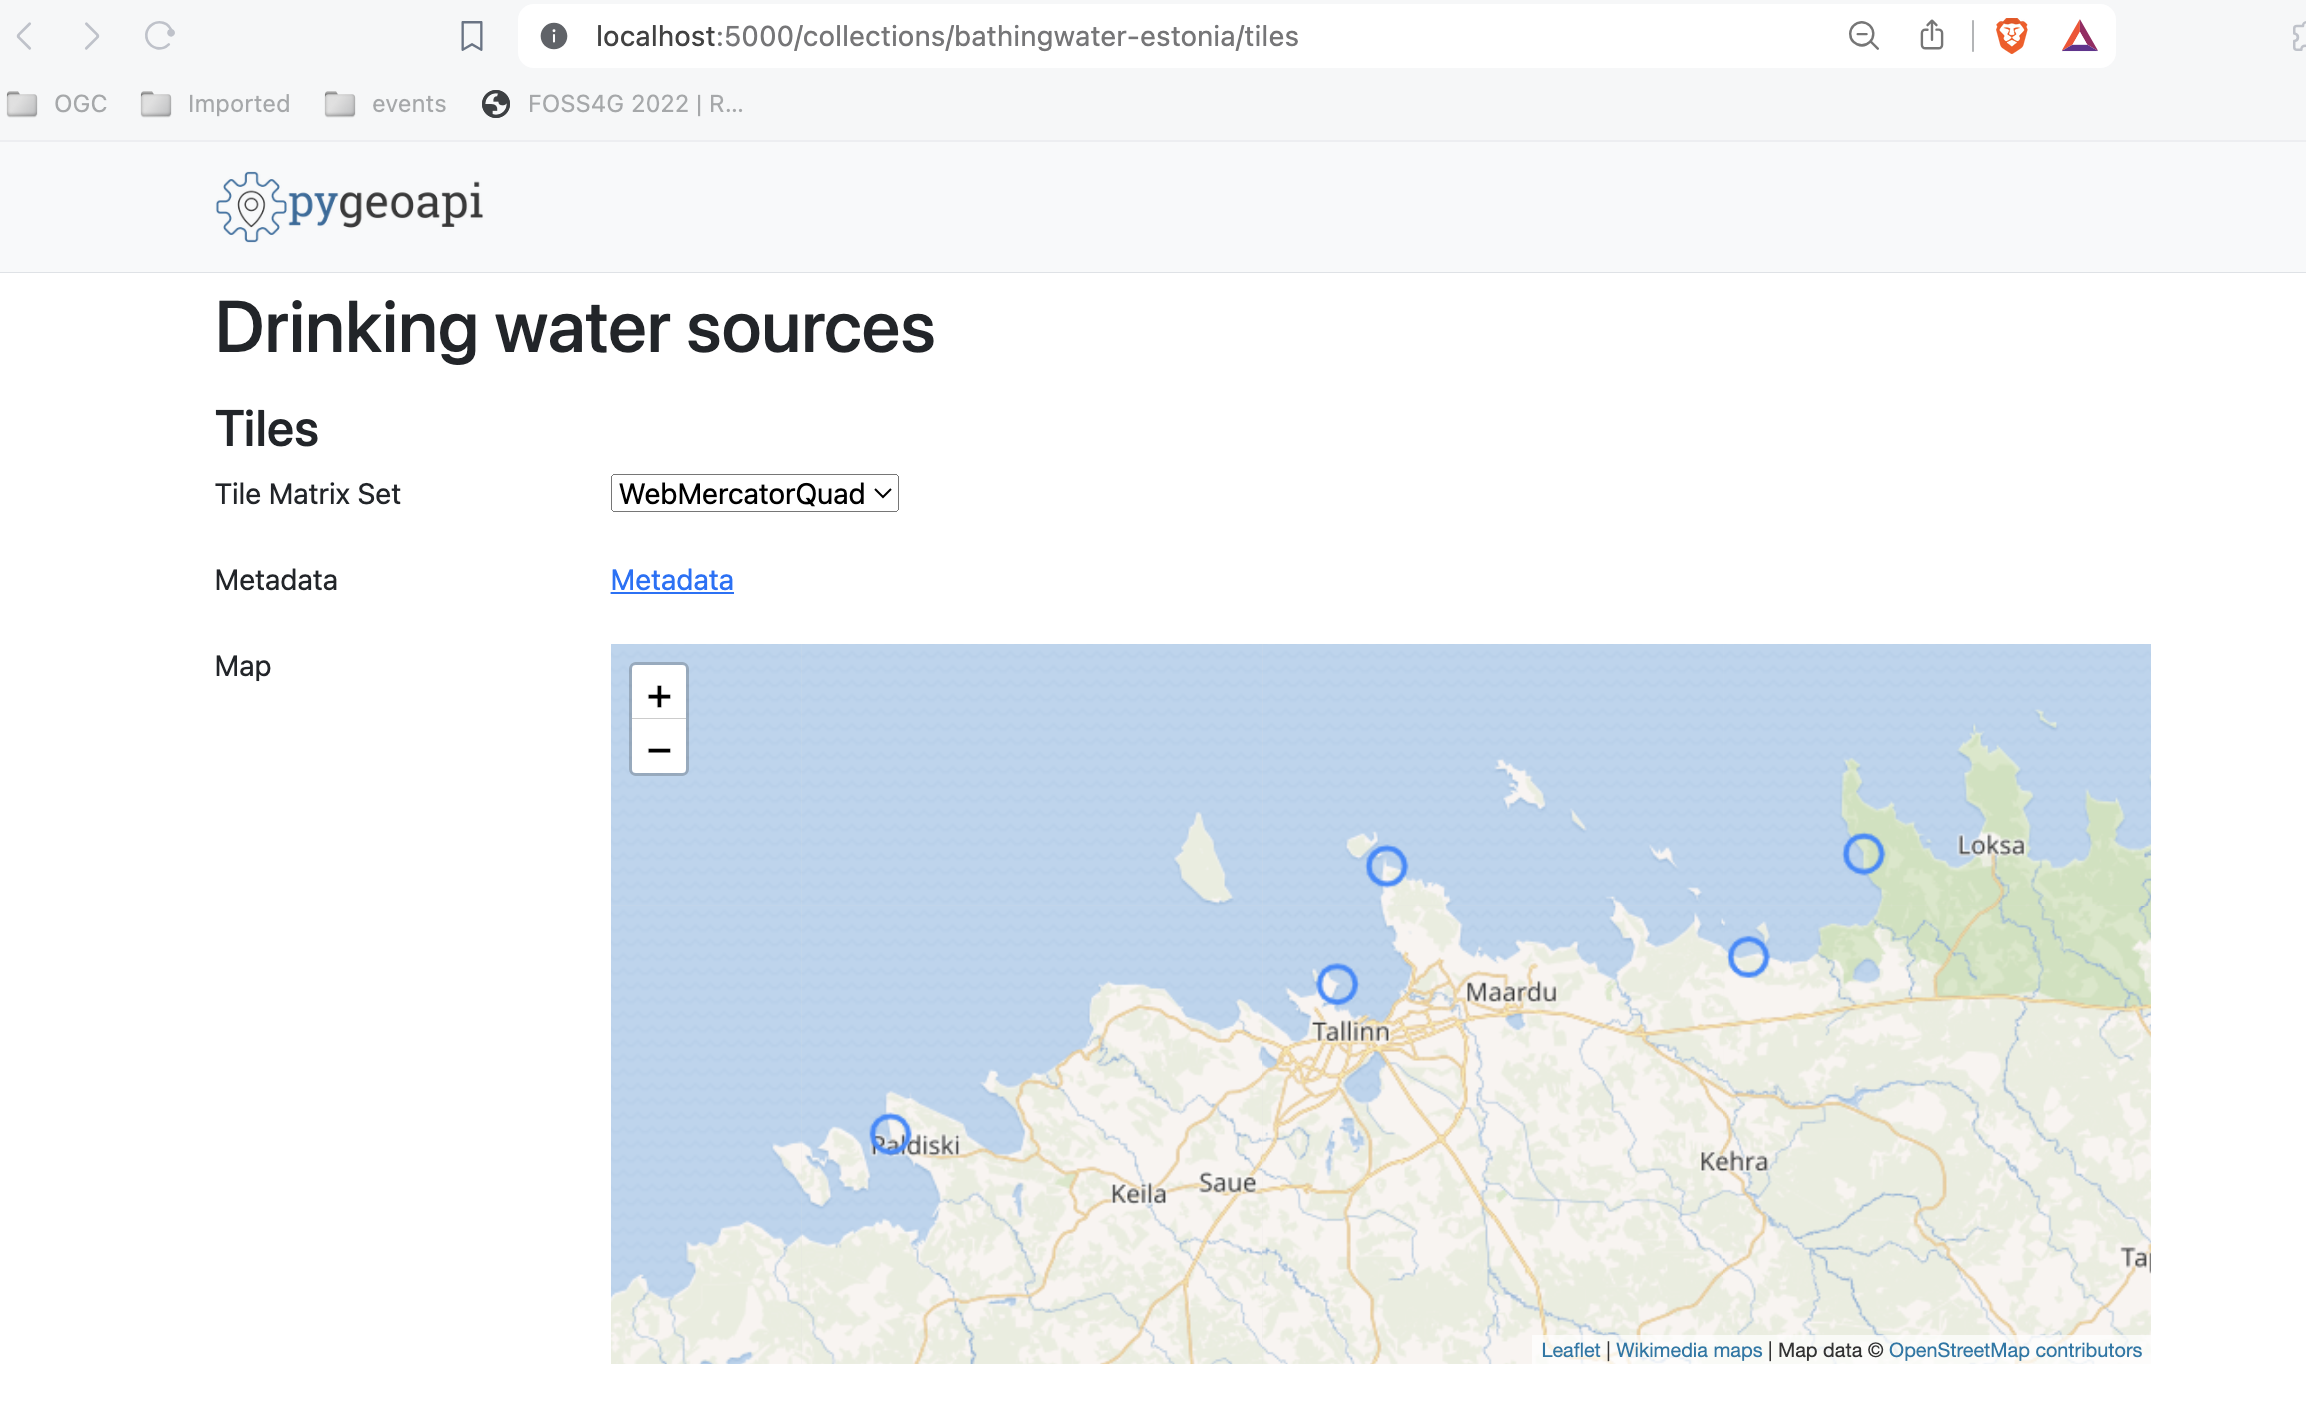
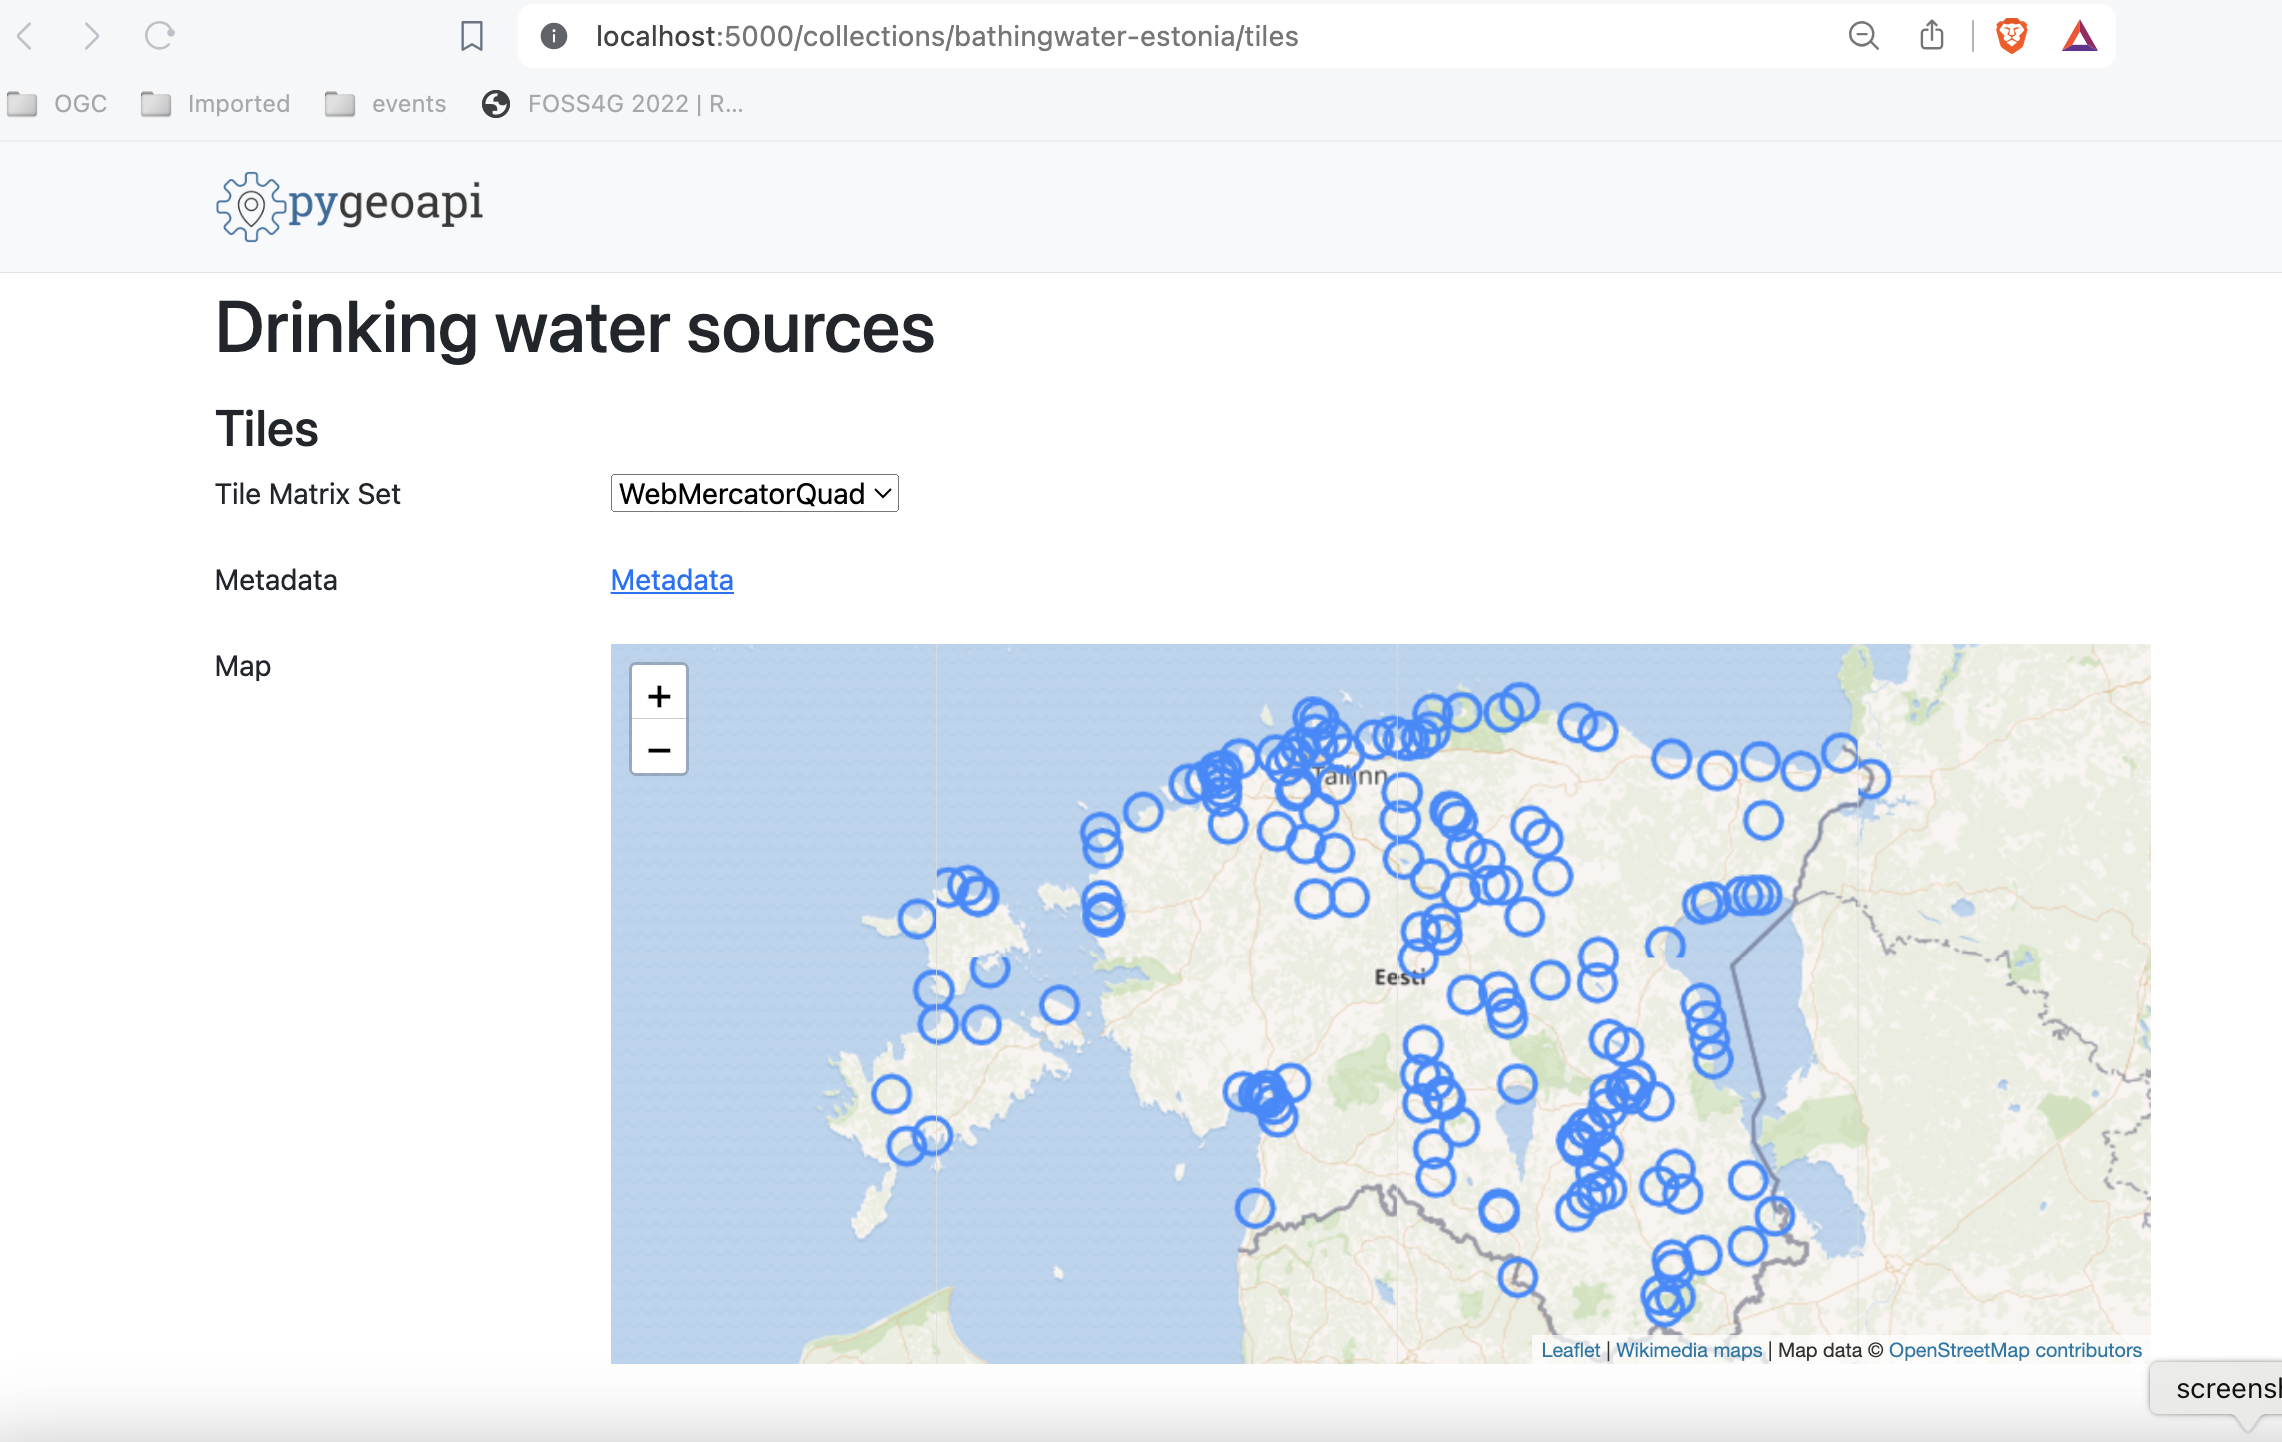
- updated client examples of vector tiles

diff --git a/workshop/exercises/html/vector-tiles.html b/workshop/exercises/html/vector-tiles.html
@@ -2,11 +2,21 @@
 <head><title>OGC API - Tiles exercise</title></head>
 <body>
 <div id="map" style="width:100vw;height:100vh;"></div>
-<link rel="stylesheet" href="https://unpkg.com/leaflet@1.0.3/dist/leaflet.css" />
-<script type="text/javascript" src="https://unpkg.com/leaflet@1.3.1/dist/leaflet.js"></script>
-<script type="text/javascript" src="https://unpkg.com/leaflet.vectorgrid@1.3.0/dist/Leaflet.VectorGrid.bundled.js"></script>
+
+<!-- load leaflet -->
+<link rel="stylesheet" href="https://unpkg.com/leaflet@1.7.1/dist/leaflet.css"
+    integrity="sha512-xodZBNTC5n17Xt2atTPuE1HxjVMSvLVW9ocqUKLsCC5CXdbqCmblAshOMAS6/keqq/sMZMZ19scR4PsZChSR7A=="
+    crossorigin="" />
+<script src="https://unpkg.com/leaflet@1.7.1/dist/leaflet.js"
+    integrity="sha512-XQoYMqMTK8LvdxXYG3nZ448hOEQiglfqkJs1NOQV44cWnUrBc8PkAOcXy20w0vlaXaVUearIOBhiXZ5V3ynxwA=="
+    crossorigin=""></script>
+
+<!-- load VectorGrid extension -->
+<script src="https://unpkg.com/leaflet.vectorgrid@1.3.0/dist/Leaflet.VectorGrid.bundled.js"></script>
+<link rel="stylesheet" href="https://cdnjs.cloudflare.com/ajax/libs/github-fork-ribbon-css/0.2.3/gh-fork-ribbon.min.css" />
+
 <script>    
-map = L.map('map').setView({ lat: 17.425181, lng: 78.5493906 }, 11);
+map = L.map('map').setView({ lat: 58.37, lng: 26.72 }, 7);
 map.addLayer(
     new L.tileLayer('https://server.arcgisonline.com/ArcGIS/rest/services/NatGeo_World_Map/MapServer/tile/{z}/{y}/{x}', {
     attribution: 'Tiles &copy; Esri &mdash; National Geographic, Esri, DeLorme, NAVTEQ, UNEP-WCMC, USGS, NASA, ESA, METI, NRCAN, GEBCO, NOAA, iPC',
@@ -14,21 +24,21 @@ map.addLayer(
     maxZoom: 16,
     }));
  function getColor(val){
-    if (val < 40) {return "#f2e6c7"}
-    else if (val < 80) {return "#8fa37e"}
-    else if (val < 100) {return "#f0d17d"}
-    else if (val < 120) {return  "#d7ded1"}
-    else return "#c2d0d9";
+    if (val < 0) {return "#ffffff"}
+    else if (val < 400) {return "#ffbfbf"}
+    else if (val < 1500) {return "#ff8080"}
+    else if (val < 3000) {return  "#ff4040"}
+    else return "#ff0000";
  }
  var vectorTileStyling = {
-    greater_hyderabad_municipal_corporation_ward_Boundaries: function(properties) {
+    bathingwaterestonia: function(properties) {
+        console.log(properties)
         return ({
             fill: true,
-            fillColor: getColor(properties.objectid),
+            fillColor: getColor(properties.visitors),
             color: "#ffffff",
             fillOpacity: 1.0,
-            weight: 5,
-            //color: "#ffffff",
+            weight: 1,
             opacity: 1.0,
         });
     }
@@ -38,11 +48,8 @@ map.addLayer(
         interactive: true,
         vectorTileLayerStyles: vectorTileStyling,
         };
-    var pbfURL='http://localhost:5000/collections/hyderabad/tiles/WorldCRS84Quad/{z}/{x}/{y}?f=mvt';
-    var pbfLayer=L.vectorGrid.protobuf(pbfURL,mapVectorTileOptions).on('click',function(e) {
-        console.log(e.layer);
-    L.DomEvent.stop(e);
-    }).addTo(map); 
+    var pbfURL='http://localhost:5000/collections/bathingwater-estonia/tiles/WebMercatorQuad/{z}/{x}/{y}?f=mvt';
+    var pbfLayer=L.vectorGrid.protobuf(pbfURL,mapVectorTileOptions).addTo(map); 
 </script>
 </body>
 </html>

diff --git a/workshop/content/docs/publishing/ogcapi-tiles.md b/workshop/content/docs/publishing/ogcapi-tiles.md
@@ -56,7 +56,8 @@ Let's generate the tiles as the first step using tippecanoe:
         ```bash
         cd workshop/exercises
         docker run -it --rm -v $(pwd)/data:/data emotionalcities/tippecanoe \
-        tippecanoe --output-to-directory=/data/tiles/ --force --maximum-zoom=20 --drop-densest-as-needed --extend-zooms-if-still-dropping --no-tile-compression /data/bathingwater-estonia.geojson
+        tippecanoe -r1 -pk -pf --output-to-directory=/data/tiles/ --force --maximum-zoom=20 \
+        --extend-zooms-if-still-dropping --no-tile-compression /data/bathingwater-estonia.geojson
         ```
         </div>
      
@@ -65,7 +66,9 @@ Let's generate the tiles as the first step using tippecanoe:
         <div class="termy">
         ```bash
         cd workshop/exercises
-        docker run -it --rm -v ${pwd}/data:/data emotionalcities/tippecanoe tippecanoe --output-to-directory=/data/tiles/ --force --maximum-zoom=20 --drop-densest-as-needed --extend-zooms-if-still-dropping --no-tile-compression /data/bathingwater-estonia.geojson
+        docker run -it --rm -v ${pwd}/data:/data emotionalcities/tippecanoe \
+        tippecanoe -r1 -pk -pf --output-to-directory=/data/tiles/ --force --maximum-zoom=20 \
+        --extend-zooms-if-still-dropping --no-tile-compression /data/bathingwater-estonia.geojson
         ```
         </div>
  
@@ -211,7 +214,7 @@ Edit the `docker.config.yml` configuration on the `pygeoapi` folder, adding this
                     mimetype: application/vnd.mapbox-vector-tile
 ```
 
-This configuration enables publishing ne_110m_populated_places_simple.geojson as both, OGC API - Features and OGC API - Tiles.
+This configuration enables publishing `bathingwater-estonia.geojson` as both, OGC API - Features and OGC API - Tiles.
 
 Finally start the docker composition, which will download and ingest the dataset and publish it in pygeoapi:
 
@@ -228,28 +231,20 @@ docker compose up
 
     If you are in production, you may want to close the elastic ports on docker-compose.
 
-Additional check for the following tile specific endpoints in the `bathingwater-estonia` collection:
-
-- tile links in <http://localhost:5000/collections/bathingwater-estonia/tiles>
-- tile metadata in <http://localhost:5000/collections/bathingwater-estonia/tiles/WebMercatorQuad/metadata>
-
-![TileSet](../assets/images/vtiles-estonia2.png)
-
-
 ## Client access
 
 ### QGIS
 
-QGIS supports OGC API Vector Tiles via the [Vector Tiles Layer](https://docs.qgis.org/3.22/en/docs/user_manual/working_with_vector_tiles/vector_tiles_properties.html). Although OGC API - Tiles are not natively supported, you can customize the `generic connection` in order to access them in QGIS.
+QGIS supports OGC API Vector Tiles via the [Vector Tiles Layer](https://docs.qgis.org/3.34/en/docs/user_manual/working_with_vector_tiles/vector_tiles_properties.html). Although OGC API - Tiles are not natively supported, you can customize the `generic connection` in order to access them in QGIS.
 
 !!! question "Access OGC API Vector Tiles from QGIS"
 
     Before entering QGIS, access your pygeoapi installation page on the browser and follow these steps.
 
-    - access the collection page of the tiles dataset: <http://localhost:5000/collections/hyderabad>
-    - navigate to the tiles page by clicking on `tiles`: <http://localhost:5000/collections/hyderabad/tiles>
-    - click in `Tiles metadata in tilejson format`: <http://localhost:5000/collections/Cycle/hyderabad/WorldCRS84Quad/metadata>
-    - note the URL in `tiles`: `http://localhost:5000/collections/hyderabad/tiles/WorldCRS84Quad/{tileMatrix}/{tileRow}/{tileCol}?f=mvt` and of the values of minZoom and maxZoom
+    - access the collection page of the tiles dataset: <http://localhost:5000/collections/bathingwater-estonia>
+    - navigate to the tiles page by clicking on `tiles`: <http://localhost:5000/collections/bathingwater-estonia/tiles>
+    - click in `Tiles metadata`: <http://localhost:5000/collections/bathingwater-estonia/tiles/WebMercatorQuad/metadata>
+    - note the URL template: `http://localhost:5000/collections/bathingwater-estonia/tiles/WebMercatorQuad/{tileMatrix}/{tileRow}/{tileCol}?f=mvt` and of the values of minZoom and maxZoom
 
     Follow these steps to connect to a service and access vector tiles:
 
@@ -262,11 +257,9 @@ QGIS supports OGC API Vector Tiles via the [Vector Tiles Layer](https://docs.qgi
     - press `OK` to add the service. At this point, if you are using the browser you should see the collection appearing in the menu, below "Vector Tiles"
     - double-click in the collection to add it to the map
     <!-- - remember to set the CRS of the map to `EPSG:4326` by clicking in the button on the lower right corner -->
-    - zoom in to Hyderabad to visualize your dataset
+    - zoom in to Estonia to visualize your dataset
 
-    ![](../assets/images/qgis-vtiles2-hyderabad.png){ width=100% }
-    <!-- ![](../assets/images/qgis-vtiles3.png){ width=100% } -->
-    ![](../assets/images/qgis-vtiles4-hyderabad.png){ width=100% }
+    ![](../assets/images/qgis-vtiles2-estonia.png){ width=100% }
 
 ### LeafletJS
 
@@ -277,18 +270,28 @@ QGIS supports OGC API Vector Tiles via the [Vector Tiles Layer](https://docs.qgi
     * copy the HTML below to a file called `vector-tiles.html`, or locate this file in `workshop/exercises/html`
     * open the file in a web browser
 
-    The code uses the LeafletJS library with the [leaflet.vectorgrid](https://github.com/Leaflet/Leaflet.VectorGrid) plugin to display the lakes OGC API - Tiles service on top of an OpenStreetMap base layer.
+    The code uses the LeafletJS library with the [leaflet.vectorgrid](https://github.com/Leaflet/Leaflet.VectorGrid) plugin to display the lakes OGC API - Tiles service on top of a base layer.
 
-    ``` {.html linenums="1"}
+``` {.html linenums="1"}
     <html>
     <head><title>OGC API - Tiles exercise</title></head>
     <body>
     <div id="map" style="width:100vw;height:100vh;"></div>
-    <link rel="stylesheet" href="https://unpkg.com/leaflet@1.0.3/dist/leaflet.css" />
-    <script type="text/javascript" src="https://unpkg.com/leaflet@1.3.1/dist/leaflet.js"></script>
-    <script type="text/javascript" src="https://unpkg.com/leaflet.vectorgrid@1.3.0/dist/Leaflet.VectorGrid.bundled.js"></script>
+
+    <!-- load leaflet -->
+    <link rel="stylesheet" href="https://unpkg.com/leaflet@1.7.1/dist/leaflet.css"
+        integrity="sha512-xodZBNTC5n17Xt2atTPuE1HxjVMSvLVW9ocqUKLsCC5CXdbqCmblAshOMAS6/keqq/sMZMZ19scR4PsZChSR7A=="
+        crossorigin="" />
+    <script src="https://unpkg.com/leaflet@1.7.1/dist/leaflet.js"
+        integrity="sha512-XQoYMqMTK8LvdxXYG3nZ448hOEQiglfqkJs1NOQV44cWnUrBc8PkAOcXy20w0vlaXaVUearIOBhiXZ5V3ynxwA=="
+        crossorigin=""></script>
+
+    <!-- load VectorGrid extension -->
+    <script src="https://unpkg.com/leaflet.vectorgrid@1.3.0/dist/Leaflet.VectorGrid.bundled.js"></script>
+    <link rel="stylesheet" href="https://cdnjs.cloudflare.com/ajax/libs/github-fork-ribbon-css/0.2.3/gh-fork-ribbon.min.css" />
+
     <script>    
-    map = L.map('map').setView({ lat: 17.425181, lng: 78.5493906 }, 11);
+    map = L.map('map').setView({ lat: 58.37, lng: 26.72 }, 7);
     map.addLayer(
         new L.tileLayer('https://server.arcgisonline.com/ArcGIS/rest/services/NatGeo_World_Map/MapServer/tile/{z}/{y}/{x}', {
         attribution: 'Tiles &copy; Esri &mdash; National Geographic, Esri, DeLorme, NAVTEQ, UNEP-WCMC, USGS, NASA, ESA, METI, NRCAN, GEBCO, NOAA, iPC',
@@ -296,21 +299,21 @@ QGIS supports OGC API Vector Tiles via the [Vector Tiles Layer](https://docs.qgi
         maxZoom: 16,
         }));
     function getColor(val){
-        if (val < 40) {return "#f2e6c7"}
-        else if (val < 80) {return "#8fa37e"}
-        else if (val < 100) {return "#f0d17d"}
-        else if (val < 120) {return  "#d7ded1"}
-        else return "#c2d0d9";
+        if (val < 0) {return "#ffffff"}
+        else if (val < 400) {return "#ffbfbf"}
+        else if (val < 1500) {return "#ff8080"}
+        else if (val < 3000) {return  "#ff4040"}
+        else return "#ff0000";
     }
     var vectorTileStyling = {
-        greater_hyderabad_municipal_corporation_ward_Boundaries: function(properties) {
+        bathingwaterestonia: function(properties) {
+            console.log(properties)
             return ({
                 fill: true,
-                fillColor: getColor(properties.objectid),
+                fillColor: getColor(properties.visitors),
                 color: "#ffffff",
                 fillOpacity: 1.0,
-                weight: 5,
-                //color: "#ffffff",
+                weight: 1,
                 opacity: 1.0,
             });
         }
@@ -320,17 +323,22 @@ QGIS supports OGC API Vector Tiles via the [Vector Tiles Layer](https://docs.qgi
             interactive: true,
             vectorTileLayerStyles: vectorTileStyling,
             };
-        var pbfURL='http://localhost:5000/collections/hyderabad/tiles/WorldCRS84Quad/{z}/{x}/{y}?f=mvt';
-        var pbfLayer=L.vectorGrid.protobuf(pbfURL,mapVectorTileOptions).on('click',function(e) {
-            console.log(e.layer);
-        L.DomEvent.stop(e);
-        }).addTo(map); 
+        var pbfURL='http://localhost:5000/collections/bathingwater-estonia/tiles/WebMercatorQuad/{z}/{x}/{y}?f=mvt';
+        var pbfLayer=L.vectorGrid.protobuf(pbfURL,mapVectorTileOptions).addTo(map); 
     </script>
     </body>
     </html>
-    ```
+```
 
-   ![](../assets/images/leaflet-hyderabad.png){ width=100% }
+In this example, the colors of the symbols reflect the value of the `visitors` attribute.
+
+   ![](../assets/images/leaflet-estonia.png){ width=100% }
+
+!!! note 
+
+    You can check the layer attributes, by opening the console in the developer tools.
+    ![](../assets/images/vtiles-attributes.png){ width=100% }
+
 
 !!! tip 
     Try adding a [different pygeoapi vector tiles layer](https://demo.pygeoapi.io/master/collections/lakes/tiles/WorldCRS84Quad/metadata) by updating the code in `workshop/exercises/html/vector-tiles.html`.
@@ -338,11 +346,11 @@ QGIS supports OGC API Vector Tiles via the [Vector Tiles Layer](https://docs.qgi
     If you want to render the tiles from the [Elasticsearch example](#publish-vector-tiles-from-elasticsearch), you can check out the code from [this](https://github.com/doublebyte1/vtiles-example/blob/ogcapi-ws/demo-oat.htm) repository:
     <div class="termy">
     ```bash
-    git clone -b ogcapi-ws https://github.com/doublebyte1/vtiles-example.git
+    git clone -b ogcapi-ws https://github.com/emotional-cities/vtiles-example.git
     ```
     </div>
 
-    ![](../assets/images/leaflet-hyderabad2.png){ width=100% }
+    ![](../assets/images/leaflet-estonia2.png){ width=100% }
 
 !!! tip 
 
